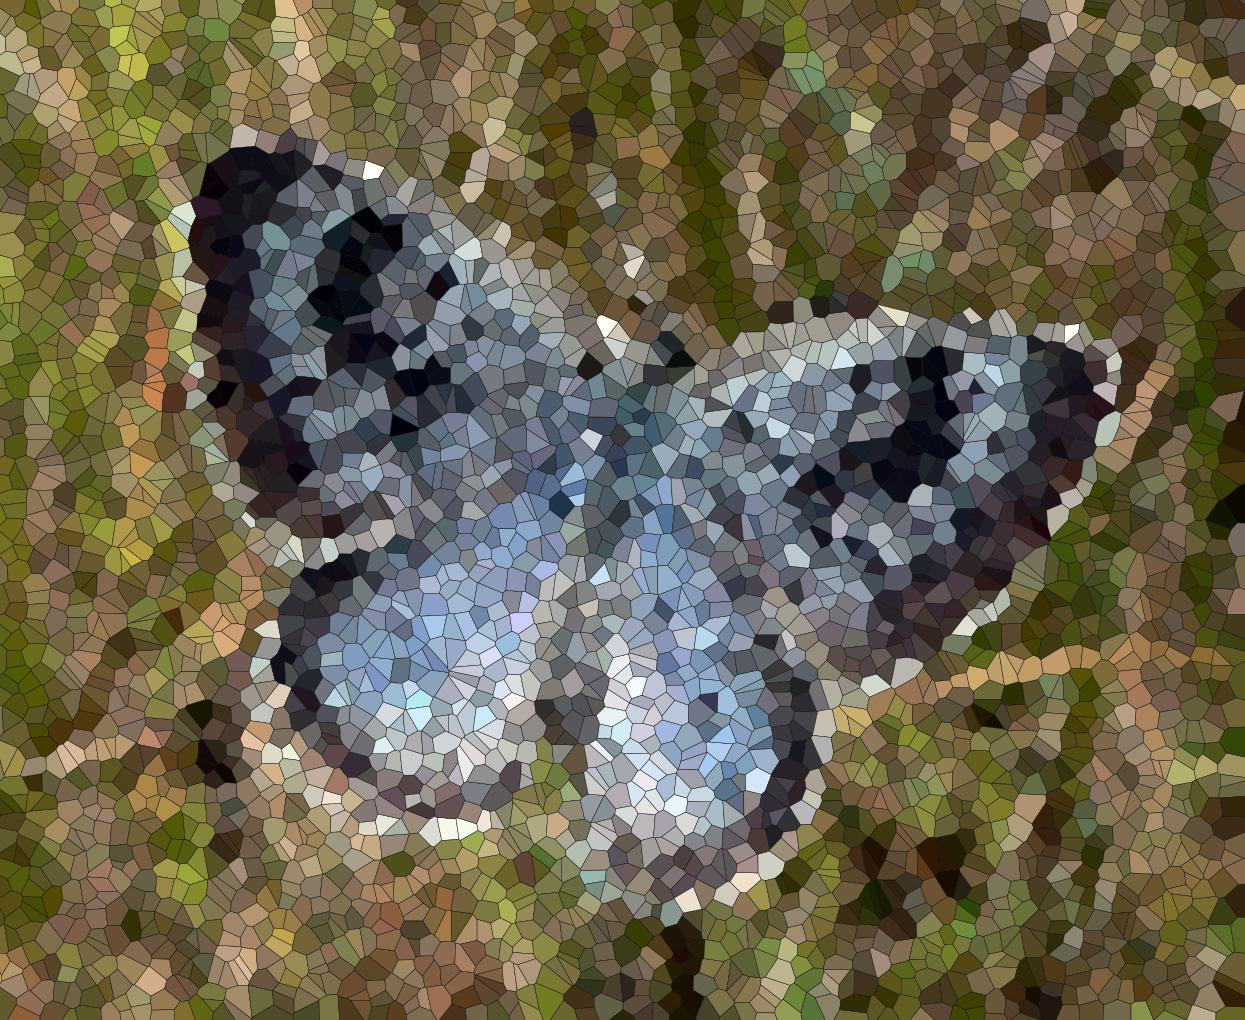
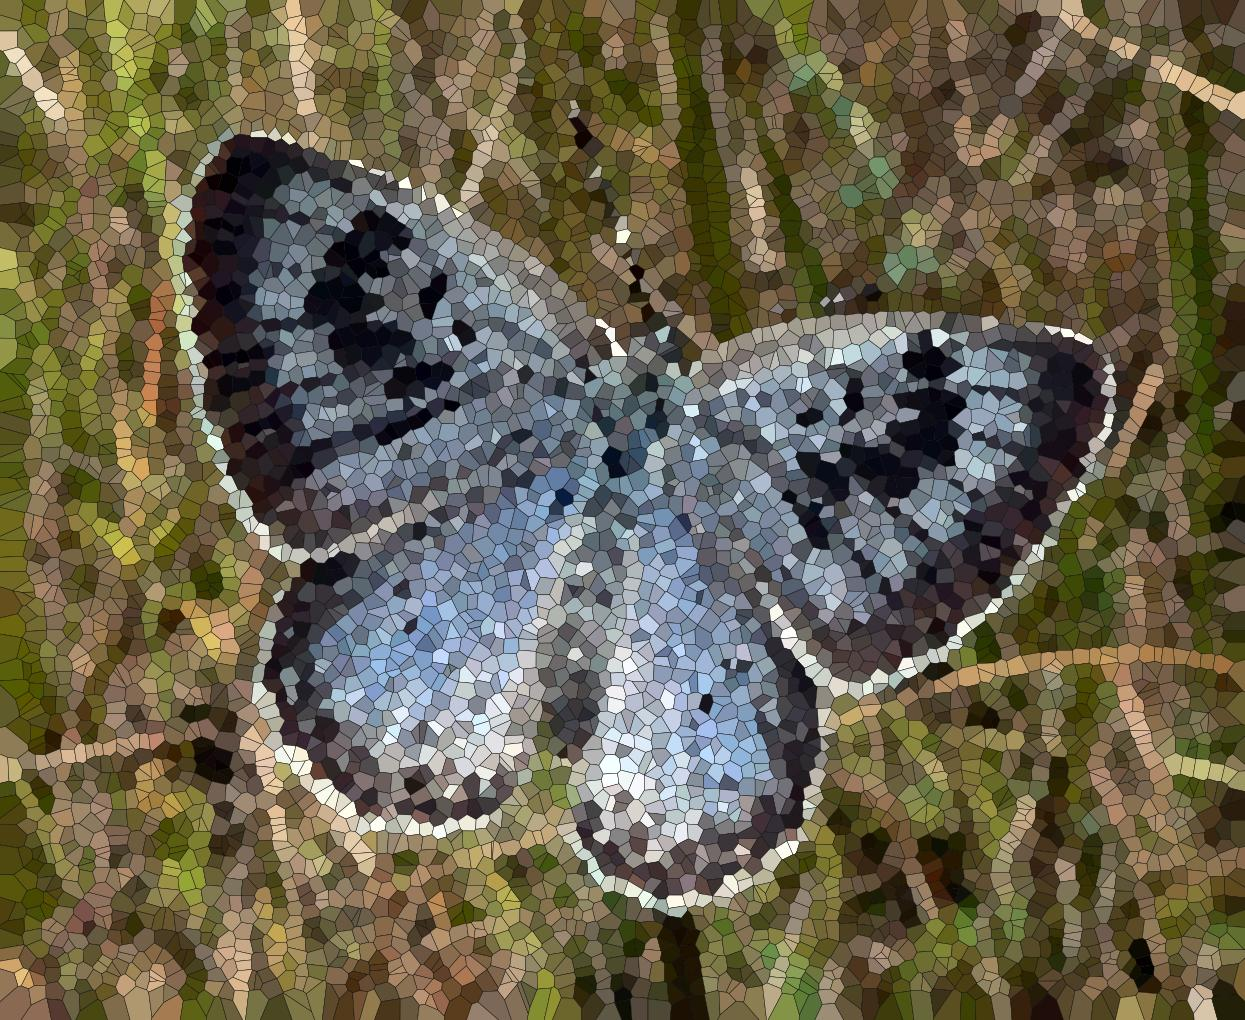
Fix Voronoi site optimization to follow the reference method
The site optimization did not implement the error minimization described in
Dobashi et al. (2002). Instead of accumulating the color error along the
boundaries between neighboring cells, it compared each cell against a
translated copy of the source image, which measures the bulk color of the cell
interior rather than the position of its edges. The resulting moves were
dominated by cell content, so cell edges never aligned with image edges and the
structures in the image came out fractured.

The error is now accumulated only on pixels where the cells at p + d and p - d
differ, which are exactly the pixels changing ownership when a site moves by one
pixel, and it is credited to both adjacent sites. Sites move only if the best
direction strictly reduces the error.

Further fixes along the way:

- The move direction was transposed: the shift was unpacked as (row, col) for
  the image, but applied to the points as (x, y).
- The optimization no longer renders through a matplotlib canvas per iteration,
  which also mixed antialiasing seams at every cell boundary into the error.
- The hex grid was a 3:1 anisotropic lattice with the row offset applied to the
  wrong axis. Now cellsize is the average cell diameter, as documented.
- voronoi_centers_random assigned the (row, col) result of unravel_index to
  (x, y), transposing the sampled points.
- cells_to_collection now collects the colors along with the patches, so a
[…]

diff --git a/voronoi_mosaic.py b/voronoi_mosaic.py
@@ -3,17 +3,17 @@ import logging
 import click
 import matplotlib.pyplot as plt
 import numpy as np
-from matplotlib.backends.backend_agg import FigureCanvasAgg
 from matplotlib.collections import PatchCollection
-from matplotlib.figure import Figure
 from matplotlib.patches import Polygon
-from scipy import ndimage as ndi
-from scipy.interpolate import interpn
 from scipy.spatial import KDTree, Voronoi
 from skimage import color
 
 RANDOM_STATE = np.random.RandomState(409239)
-MAX_VALUE = 1e6
+
+# The eight directions a Voronoi site is allowed to move into
+SHIFTS = np.array(
+    [[1, 0], [-1, 0], [1, 1], [-1, -1], [0, 1], [0, -1], [1, -1], [-1, 1]]
+)
 
 log = logging.getLogger(__name__)
 logging.basicConfig(level=logging.INFO)
@@ -23,7 +23,7 @@ def voronoi_centers_random(image, n_points, random_state=RANDOM_STATE):
     """Sample points according to the image brightness."""
     pdf = image / image.sum()
     coords = random_state.choice(np.arange(image.size), p=pdf.ravel(), size=n_points)
-    x, y = np.unravel_index(coords, image.shape)
+    y, x = np.unravel_index(coords, image.shape)
     x = random_state.uniform(x - 0.5, x + 0.5)
     y = random_state.uniform(y - 0.5, y + 0.5)
     return np.column_stack((x.flatten(), y.flatten()))
@@ -33,15 +33,17 @@ def voronoi_centers_hex_grid(
     width, height, cell_size, jitter, random_state=RANDOM_STATE
 ):
     """Generate a grid of points for a hexagonal lattice."""
-    dy, dx = 2 * cell_size, cell_size / np.sqrt(3)
-    ratio = np.sqrt(3) / 2  # cos(60°)
-    y, x = np.meshgrid(np.arange(0, height / ratio, dy), np.arange(0, width, dx))
+    dx, dy = float(cell_size), cell_size * np.sqrt(3) / 2
 
-    y = y * ratio
-    y[::2, :] += cell_size * ratio
+    x, y = np.meshgrid(
+        np.arange(cell_size, width - cell_size, dx),
+        np.arange(cell_size, height - cell_size, dy),
+    )
 
-    x = x + random_state.uniform(-jitter, jitter, x.shape)
-    y = y + random_state.uniform(-jitter, jitter, y.shape)
+    x[1::2] += dx / 2  # offset every other row to obtain a hexagonal lattice
+
+    x = x + random_state.uniform(-jitter / 2, jitter / 2, x.shape)
+    y = y + random_state.uniform(-jitter / 2, jitter / 2, y.shape)
     return np.column_stack((x.flatten(), y.flatten()))
 
 
@@ -51,87 +53,72 @@ INIT_METHODS = {
 }
 
 
-def get_mean_colors(points, image):
-    """Get colors from the image at given points."""
-    labels = points_to_label_image(points, width=image.shape[1], height=image.shape[0])
-    index = np.arange(1, np.max(labels) + 1)
-
-    colors = []
-
-    for channel in range(image.shape[2]):
-        mean = ndi.mean(image[:, :, channel], labels=labels, index=index)
-        colors.append(mean)
-
-    return np.column_stack(colors)
-
-
 def get_colors(points, image):
-    """Get colors"""
+    """Get the image color at the position of each point."""
     x_idx = np.clip(points[:, 0].astype(int), 0, image.shape[1] - 1)
     y_idx = np.clip(points[:, 1].astype(int), 0, image.shape[0] - 1)
     return image[y_idx, x_idx]
 
 
 def get_voronoi_tesselation(points):
-    """Get Voronoi tessellation for given points."""
-    points_vor = np.append(
-        points,
-        [
-            [MAX_VALUE, MAX_VALUE],
-            [-MAX_VALUE, MAX_VALUE],
-            [MAX_VALUE, -MAX_VALUE],
-            [-MAX_VALUE, -MAX_VALUE],
-        ],
-        axis=0,
-    )
-    voronoi = Voronoi(points_vor, qhull_options="Qbb Qc Qx")
-    return voronoi
+    """Get Voronoi tessellation for given points.
+
+    Four far away points are added, such that all cells of the actual points are
+    bounded. They are placed relative to the extent of the points, to not degrade
+    the numerical precision of the tessellation.
+    """
+    offset = 10 * np.ptp(points, axis=0)
+    corners = np.array([[1, 1], [-1, 1], [1, -1], [-1, -1]])
+
+    points_vor = np.append(points, points.mean(axis=0) + corners * offset, axis=0)
+    return Voronoi(points_vor, qhull_options="Qbb Qc")
 
 
-def optimize_voronoi_cells(image, points, niter=5, error_threshold=0.1):
-    """Optimize Voronoi cells to better fit the image."""
-    width, height = image.shape[1], image.shape[0]
+def optimize_voronoi_cells(image, points, niter=5):
+    """Optimize Voronoi cells to better fit the image.
 
-    shifts = np.array(
-        [[1, 0], [-1, 0], [1, 1], [-1, -1], [0, 1], [0, -1], [1, -1], [-1, 1]]
-    )
+    Each site is moved by one pixel into the direction which reduces the color
+    error most. For a given direction the error is only evaluated on the pixels
+    along the boundary between two cells, because those are the pixels which
+    change ownership when either of the two sites moves: moving both the site of
+    the cell in the direction of the shift and the site of the cell opposite to
+    it hands the boundary pixels over to the latter.
+    """
+    height, width = image.shape[0], image.shape[1]
 
-    index = np.arange(len(points)) + 1
-
-    image_padded = np.pad(image, ((1, 1), (1, 1), (0, 0)), mode="reflect")
+    index = np.arange(len(points))
+    inner = (slice(1, -1), slice(1, -1))
 
     for idx in range(niter):
         labels = points_to_label_image(points, width=width, height=height)
-        colors = np.nan_to_num(get_colors(points, image))
-        vor = get_voronoi_tesselation(points)
-        collection = cells_to_collection(vor, colors, outline_color="none")
-        image_voronoi = collection_to_voronoi_image(
-            collection, width=width, height=height
-        )
+        colors = get_colors(points, image)
 
-        error_null = ndi.sum(
-            np.square(image_voronoi - image), labels=labels[..., None], index=index
-        )
+        image_voronoi = colors_to_voronoi_image(colors, labels)
+        error_null = np.square(image_voronoi - image).sum(axis=-1)
 
         log.info(f"Iteration {idx + 1}/{niter}, error: {error_null.sum():.2f}")
 
-        errors = []
+        errors = np.zeros((len(SHIFTS), len(points)))
 
-        for shift in shifts:
-            dx, dy = shift[1], shift[0]
-            shifted = image_padded[1 + dy : 1 + height + dy, 1 + dx : 1 + width + dx]
-            error = ndi.sum(
-                np.square(image_voronoi - shifted),
-                labels=labels[..., None],
-                index=index,
-            )
-            errors.append(error_null - error)
+        for idx_shift, (dx, dy) in enumerate(SHIFTS):
+            neighbor = labels[1 + dy : height - 1 + dy, 1 + dx : width - 1 + dx]
+            opposite = labels[1 - dy : height - 1 - dy, 1 - dx : width - 1 - dx]
 
-        errors = np.array(errors)
+            is_boundary = neighbor != opposite
 
-        mask = (errors >= error_threshold).any(axis=0)
+            error = np.square(colors[opposite] - image[inner]).sum(axis=-1)
+            delta = (error - error_null[inner])[is_boundary]
 
-        points[mask] += shifts[np.argmax(errors, axis=0)[mask]]
+            for labels_shifted in [neighbor, opposite]:
+                errors[idx_shift] += np.bincount(
+                    labels_shifted[is_boundary], weights=delta, minlength=len(points)
+                )
+
+        idx_best = np.argmin(errors, axis=0)
+        is_improved = errors[idx_best, index] < 0
+
+        points[is_improved] += SHIFTS[idx_best[is_improved]]
+        np.clip(points, 0, [width - 1, height - 1], out=points)
 
     return points
 
@@ -141,48 +128,35 @@ def cells_to_collection(vor, colors, outline_color, lw=0.5):
     # TODO: add smoothing of the Voronoi cells, e.g.
     # https://stackoverflow.com/a/69247177/19802442 and https://stackoverflow.com/a/72099748/19802442
 
-    patches = []
+    patches, face_colors = [], []
 
-    for idx, region_idx in enumerate(vor.point_region):
-        region = vor.regions[region_idx]
-        if -1 not in region:
-            polygon = Polygon([vor.vertices[_] for _ in region])
-            patches.append(polygon)
+    for idx, idx_region in enumerate(vor.point_region[: len(colors)]):
+        region = vor.regions[idx_region]
 
-    return PatchCollection(patches, fc=colors, ec=outline_color, lw=lw)
+        if -1 in region or len(region) < 3:
+            continue
 
+        patches.append(Polygon(vor.vertices[region]))
+        face_colors.append(colors[idx])
 
-def collection_to_voronoi_image(collection, width, height, dpi=300):
-    """Convert a PatchCollection to a label image."""
-    fig = Figure(figsize=(width / dpi, height / dpi), dpi=dpi)
-    canvas = FigureCanvasAgg(fig)
+    if outline_color == "none":
+        # avoid white seams between the cells from antialiasing
+        outline_color = face_colors
 
-    ax = fig.add_axes([0, 0, 1, 1])
-    ax.add_collection(collection)
-    ax.set_xlim(0, width)
-    ax.set_ylim(height, 0)
-    ax.axis("off")
-    canvas.draw()
-    values = np.asarray(canvas.buffer_rgba())[..., :3]
-    return values / 255.0
+    return PatchCollection(patches, fc=face_colors, ec=outline_color, lw=lw)
 
 
-def colors_to_voronoi_image(values, labels, width, height):
-    """Convert values to a voronoi image."""
-    labels_flat = labels.flatten()
-    choice = labels_flat == np.arange(1, labels_flat.max() + 1).reshape(-1, 1)
-
-    choice_ = np.expand_dims(choice, axis=2)
-    values_ = np.expand_dims(values, axis=1)
-    return np.select(choice_, values_).reshape(height, width, 3)
+def colors_to_voronoi_image(values, labels):
+    """Convert per cell values to a voronoi image."""
+    return values[labels]
 
 
 def points_to_label_image(points, width, height):
     """Convert points to a label image using a KDTree."""
     tree = KDTree(points)
     y, x = np.mgrid[0:height, 0:width]
-    _, labels = tree.query(np.column_stack((x.ravel(), y.ravel())), k=1)
-    return labels.reshape((height, width)) + 1
+    _, labels = tree.query(np.column_stack((x.ravel(), y.ravel())), k=1, workers=-1)
+    return labels.reshape((height, width))
 
 
 def plot_voronoi_mosaic(voronoi, image, dpi, colors, outline_color):
@@ -234,7 +208,10 @@ def cli(
 ):
     """Create a Voronoi mosaic from an image."""
     log.info(f"Read image from {image_path}")
-    image = plt.imread(image_path)[:, :, :3] / 255.0
+    image = plt.imread(image_path)[:, :, :3]
+
+    if image.dtype == np.uint8:
+        image = image / 255.0
 
     height, width, _ = image.shape
 
